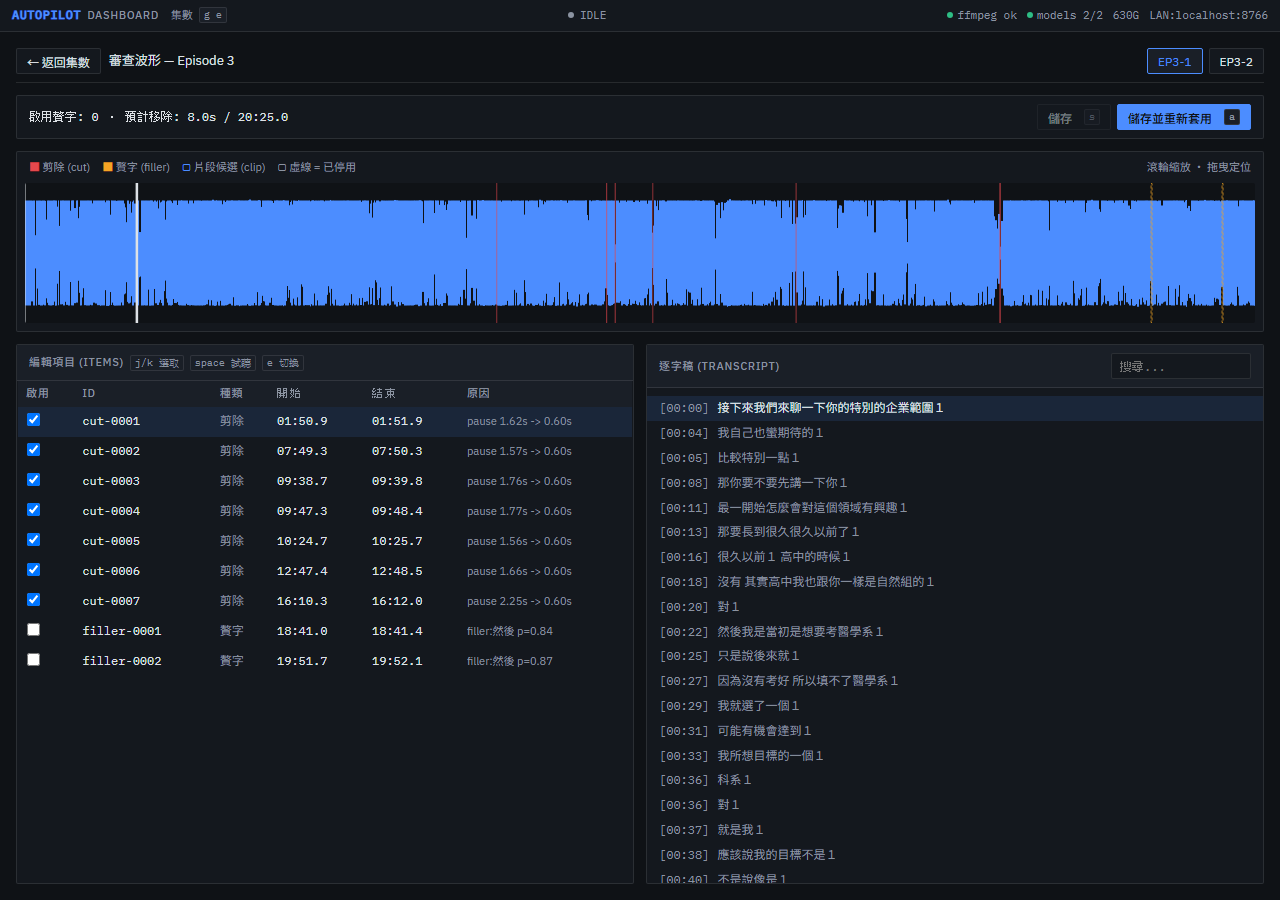
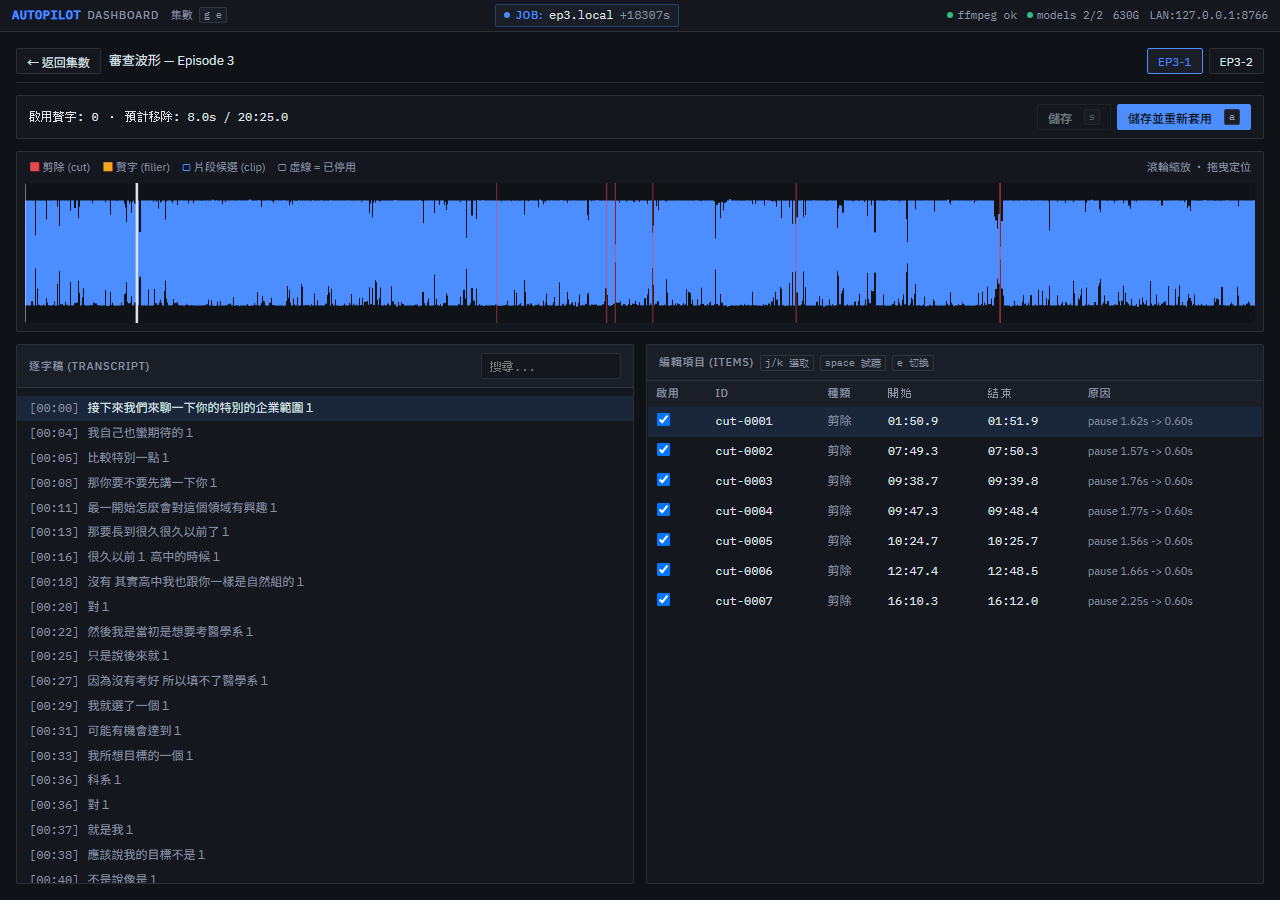
Fix T-0009-P4-F2: dirty-guard bypass, 422 audit errors, stale screenshots
- App.tsx: global "g e" shortcut now routes through a shared
  navigationGuard so it respects ReviewPage's unsaved-edits confirm,
  same as the in-page back button.
- api/client.ts: putPlan no longer throws on 422; it resolves the
  structured { ok, errors } audit body so ReviewPage's existing
  per-item error mapping (errorsByItemId) actually runs.
- Regenerated review-1280px.png/review-768px.png to match the
  current item-list-on-right layout.
- Added web/test/client.test.ts covering the 422/500/200 putPlan paths.

diff --git a/web/test/client.test.ts b/web/test/client.test.ts
@@ -1,0 +1,52 @@
+import { describe, it, expect, vi, afterEach } from "vitest";
+import { putPlan } from "../src/api/client";
+
+describe("putPlan", () => {
+  afterEach(() => {
+    vi.unstubAllGlobals();
+  });
+
+  it("resolves with the structured audit errors on a 422 response instead of throwing", async () => {
+    const body = { ok: false, errors: ["item cut-0001 and cut-0002 overlap: [1, 2) vs [1.5, 3)"] };
+    vi.stubGlobal(
+      "fetch",
+      vi.fn().mockResolvedValue({
+        status: 422,
+        ok: false,
+        json: () => Promise.resolve(body),
+      })
+    );
+
+    const result = await putPlan("ep3.local", "EP3-1", [{ id: "cut-0001", enabled: true }]);
+
+    expect(result).toEqual(body);
+  });
+
+  it("throws on a non-422 failure", async () => {
+    vi.stubGlobal(
+      "fetch",
+      vi.fn().mockResolvedValue({
+        status: 500,
+        ok: false,
+        text: () => Promise.resolve("boom"),
+      })
+    );
+
+    await expect(putPlan("ep3.local", "EP3-1", [])).rejects.toThrow("boom");
+  });
+
+  it("resolves with the success payload on 200", async () => {
+    const body = { ok: true, seconds_removed: 8, coverage_ratio: 0.97 };
+    vi.stubGlobal(
+      "fetch",
+      vi.fn().mockResolvedValue({
+        status: 200,
+        ok: true,
+        json: () => Promise.resolve(body),
+      })
+    );
+
+    const result = await putPlan("ep3.local", "EP3-1", []);
+    expect(result).toEqual(body);
+  });
+});

diff --git a/web/src/api/client.ts b/web/src/api/client.ts
@@ -57,16 +57,24 @@ export function fetchPlan(episodeId: string, partId: string): Promise<PlanRespon
   return jsonRequest(`${API_BASE}/episodes/${encodeURIComponent(episodeId)}/parts/${encodeURIComponent(partId)}/plan`);
 }
 
-export function putPlan(
+export async function putPlan(
   episodeId: string,
   partId: string,
   flags: Array<{ id: string; enabled: boolean }>
 ): Promise<PlanPutResult> {
-  return jsonRequest(`${API_BASE}/episodes/${encodeURIComponent(episodeId)}/parts/${encodeURIComponent(partId)}/plan`, {
-    method: "PUT",
-    headers: { "Content-Type": "application/json" },
-    body: JSON.stringify(flags),
-  });
+  const resp = await fetch(
+    `${API_BASE}/episodes/${encodeURIComponent(episodeId)}/parts/${encodeURIComponent(partId)}/plan`,
+    {
+      method: "PUT",
+      headers: { "Content-Type": "application/json" },
+      body: JSON.stringify(flags),
+    }
+  );
+  // 422 carries a structured { ok: false, errors: string[] } body (audit
+  // failure) rather than a generic error, so parse it instead of throwing.
+  if (resp.status === 422) return resp.json();
+  if (!resp.ok) throw new Error((await resp.text()) || `${resp.status} ${resp.statusText}`);
+  return resp.json();
 }
 
 export function fetchTranscript(episodeId: string, partId: string): Promise<TranscriptResponse> {

diff --git a/web/src/pages/ReviewPage.tsx b/web/src/pages/ReviewPage.tsx
@@ -17,6 +17,7 @@ import { ItemList } from "../components/ItemList";
 import { TranscriptPane } from "../components/TranscriptPane";
 import { computeSecondsRemoved, computeEnabledFillerCount, computeSnippetRange } from "../lib/planMath";
 import { formatTimeTenths } from "../lib/format";
+import { registerNavigationGuard, confirmNavigation } from "../lib/navigationGuard";
 
 function partStems(episode: EpisodeDetail | undefined): string[] {
   if (!episode) return [];
@@ -193,11 +194,18 @@ export const ReviewPage: React.FC = () => {
 
   const guardedNavigate = useCallback(
     (to: string) => {
-      if (dirty && !window.confirm("有未儲存的變更，確定要離開嗎？")) return;
+      if (!confirmNavigation()) return;
       navigate(to);
     },
-    [dirty, navigate]
+    [navigate]
   );
+
+  useEffect(() => {
+    registerNavigationGuard(() =>
+      !dirty || window.confirm("有未儲存的變更，確定要離開嗎？")
+    );
+    return () => registerNavigationGuard(null);
+  }, [dirty]);
 
   useEffect(() => {
     const handler = (e: BeforeUnloadEvent) => {

diff --git a/web/src/App.tsx b/web/src/App.tsx
@@ -9,6 +9,7 @@ import { NewEpisodePage } from "./pages/NewEpisodePage";
 import { ClipsPage } from "./pages/ClipsPage";
 import { ReviewPage } from "./pages/ReviewPage";
 import { DeliverablesPage } from "./pages/DeliverablesPage";
+import { confirmNavigation } from "./lib/navigationGuard";
 import type { EpisodeSummary } from "./api/types";
 
 export const App: React.FC = () => {
@@ -58,7 +59,7 @@ export const App: React.FC = () => {
       if (prev.key === "g" && e.key === "e" && now - prev.time < 1000) {
         e.preventDefault();
         lastKeyRef.current = { key: "", time: 0 };
-        if (location.pathname !== "/episodes") {
+        if (location.pathname !== "/episodes" && confirmNavigation()) {
           navigate("/episodes");
         }
         return;

diff --git a/web/src/lib/navigationGuard.ts b/web/src/lib/navigationGuard.ts
@@ -1,0 +1,15 @@
+/** Registered by whichever page currently holds unsaved edits (e.g. ReviewPage).
+ * Global navigation shortcuts (like the "g e" sequence in App.tsx) call
+ * confirmNavigation() before leaving so they respect the same dirty-state
+ * guard as the page's own back button. */
+type GuardFn = () => boolean;
+
+let guard: GuardFn | null = null;
+
+export function registerNavigationGuard(fn: GuardFn | null): void {
+  guard = fn;
+}
+
+export function confirmNavigation(): boolean {
+  return guard ? guard() : true;
+}
